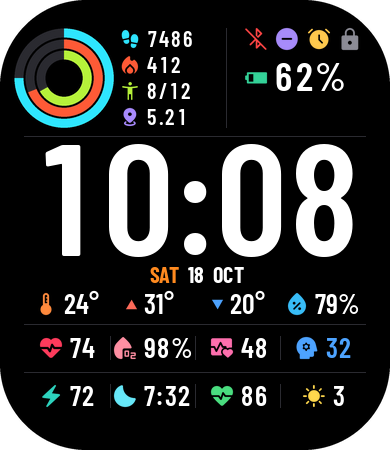
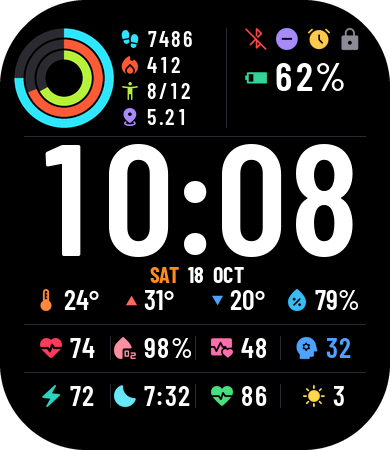
Keep weather digits as short as the vitals digits
The watch blanks roughly twice a TEXT_IMG's height below it; the 25 px
weather digits (raised by the degree sign) clipped the top of the first
vitals row's icons. Draw the degree sign within the 21 px digit height.

diff --git a/watchface/metrics.js b/watchface/metrics.js
@@ -97,7 +97,7 @@ export const M = {
     "slash": 10
   },
   "wx": {
-    "h": 25,
+    "h": 21,
     "digit_w": 13,
     "cap": 20,
     "avg_w": 11.9,
@@ -177,7 +177,7 @@ export const M = {
   "weatherRow": {
     "tempIcon": {
       "x": 34,
-      "y": 292,
+      "y": 288,
       "src": "icon/temp.png"
     },
     "temp": {
@@ -187,7 +187,7 @@ export const M = {
     },
     "highIcon": {
       "x": 125,
-      "y": 298,
+      "y": 294,
       "src": "icon/high.png"
     },
     "high": {
@@ -197,7 +197,7 @@ export const M = {
     },
     "lowIcon": {
       "x": 211,
-      "y": 298,
+      "y": 294,
       "src": "icon/low.png"
     },
     "low": {
@@ -207,7 +207,7 @@ export const M = {
     },
     "humIcon": {
       "x": 285,
-      "y": 292,
+      "y": 288,
       "src": "icon/humidity.png"
     },
     "hum": {
@@ -217,7 +217,7 @@ export const M = {
     },
     "tap": {
       "x": 24,
-      "y": 288,
+      "y": 286,
       "w": 342,
       "h": 30
     }

diff --git a/tools/gen_assets.py b/tools/gen_assets.py
@@ -57,7 +57,7 @@ SS = 4  # supersampling factor for icons and shapes
 # y 303, and a 2 x 4 vitals block whose rows are centred on y 348 and 396.
 MARGIN_X0, MARGIN_X1 = 24, 366
 DATE_CY = 274
-WEATHER_CY = 303
+WEATHER_CY = 301
 VITAL_ROWS = (348, 396)
 VITALS = (('hr', 'spo2', 'hrv', 'stress'), ('hybrid', 'sleep', 'pai', 'uv'))
 ICON, GAP = 24, 6  # value icons and the icon-to-value gap used everywhere
@@ -83,13 +83,13 @@ def tint(mask, color):
 EXTRAS = {'colon': ':', 'dot': '.', 'slash': '/', 'pct': '%', 'deg': '°', 'minus': '-', 'invalid': '--'}
 
 
-def font_set(name, size, color, extras=(), weight='SemiBold', pad_x=1, top=None, proportional=False):
+def font_set(name, size, color, extras=(), weight='SemiBold', pad_x=1, top=None, proportional=False, compact_deg=False):
     """top: shared distance above the baseline (negative) so several sets line up.
     proportional: each digit keeps its own width (no gap around "1"); slots are
     still sized from the widest digit."""
     font = ImageFont.truetype(BARLOW[weight], size)
     if top is None:
-        probe = '0123456789%' + ('°' if 'deg' in extras else '')
+        probe = '0123456789%' + ('°' if 'deg' in extras and not compact_deg else '')
         top = font.getbbox(probe, anchor='ls')[1]  # negative: distance above baseline
     h = -top + 1
     digit_w = max(math.ceil(font.getlength(c)) for c in '0123456789') + pad_x
@@ -107,6 +107,14 @@ def font_set(name, size, color, extras=(), weight='SemiBold', pad_x=1, top=None,
         widths.append(save(glyph(d, None if proportional else digit_w), f'font/{name}/{d}.png').width)
     m['avg_w'] = round(sum(widths) / 10, 1)
     for key in extras:
+        if key == 'deg' and compact_deg:
+            # Keep the set as short as the digits: draw ° with its top on the box top
+            w = math.ceil(font.getlength('°')) + pad_x
+            mask = Image.new('L', (w, h), 0)
+            dtop = font.getbbox('°', anchor='ls')[1]
+            ImageDraw.Draw(mask).text((0, h - 1 + (top - dtop)), '°', font=font, fill=255, anchor='ls')
+            m[key] = save(tint(mask, color), f'font/{name}/deg.png').width
+            continue
         m[key] = save(glyph(EXTRAS[key]), f'font/{name}/{key}.png').width
     metrics[name] = m
 
@@ -324,7 +332,10 @@ def main():
     for zone, c in STRESS_ZONES.items():
         font_set(f'tile_{zone}', 28, c, proportional=True)
     font_set('stat', 22, WHITE, ('dot', 'slash'))
-    font_set('wx', 28, WHITE, ('deg', 'pct', 'minus', 'invalid'), pad_x=0, proportional=True)
+    # compact_deg: the watch blanks about 2x a number widget's height below it,
+    # so the weather digits must stay as short as the vitals digits (21 px) or
+    # they clip the tops of the first vitals row's icons.
+    font_set('wx', 28, WHITE, ('deg', 'pct', 'minus', 'invalid'), pad_x=0, proportional=True, compact_deg=True)
     # Date: day/date/month share one height so they share a baseline
     date_top = shared_top(22)
     for phase, c in WEEK_PHASES.items():
